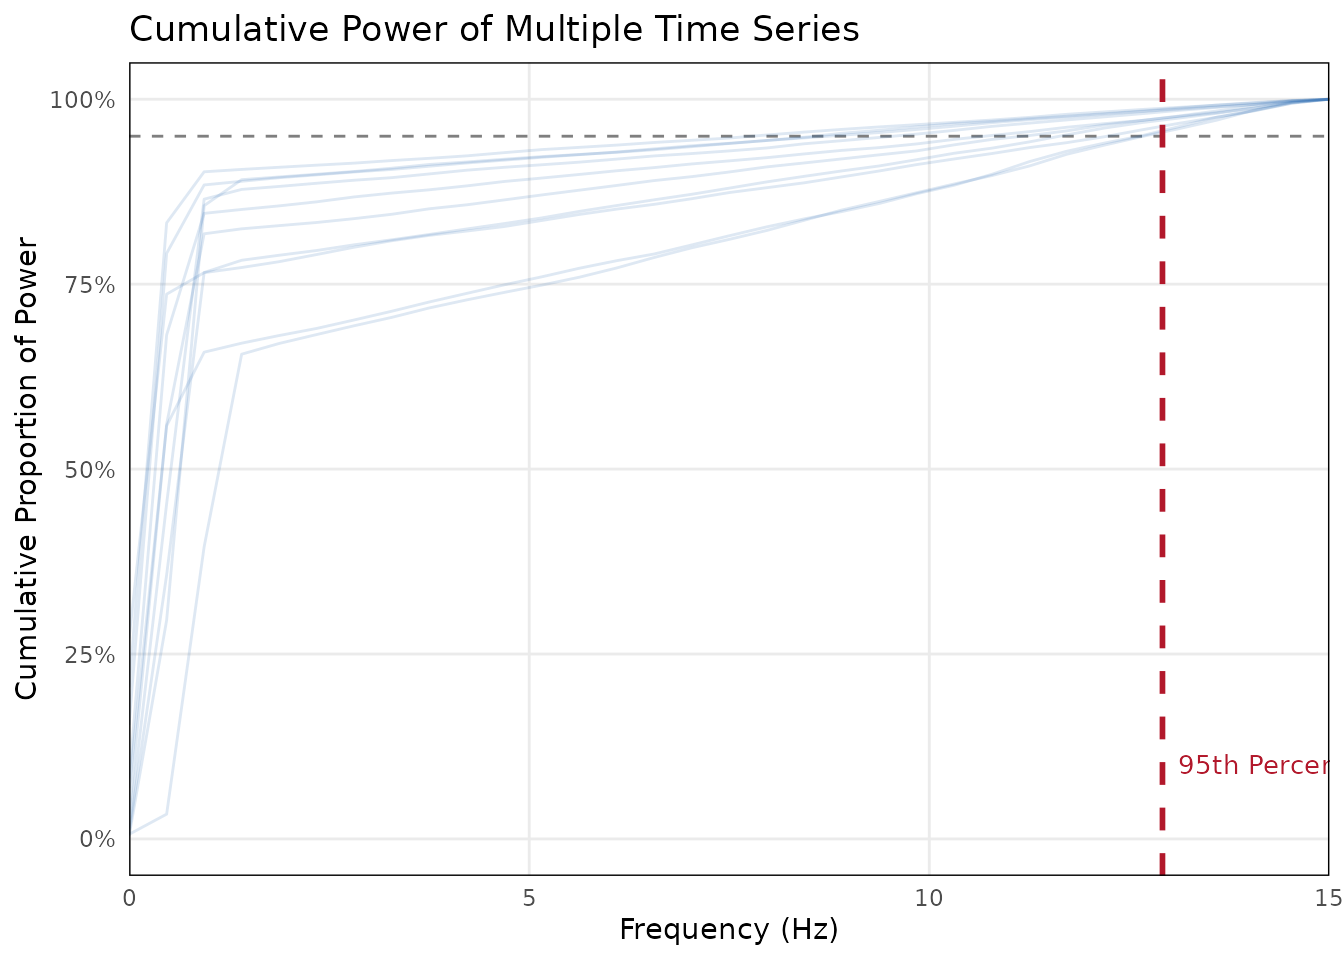
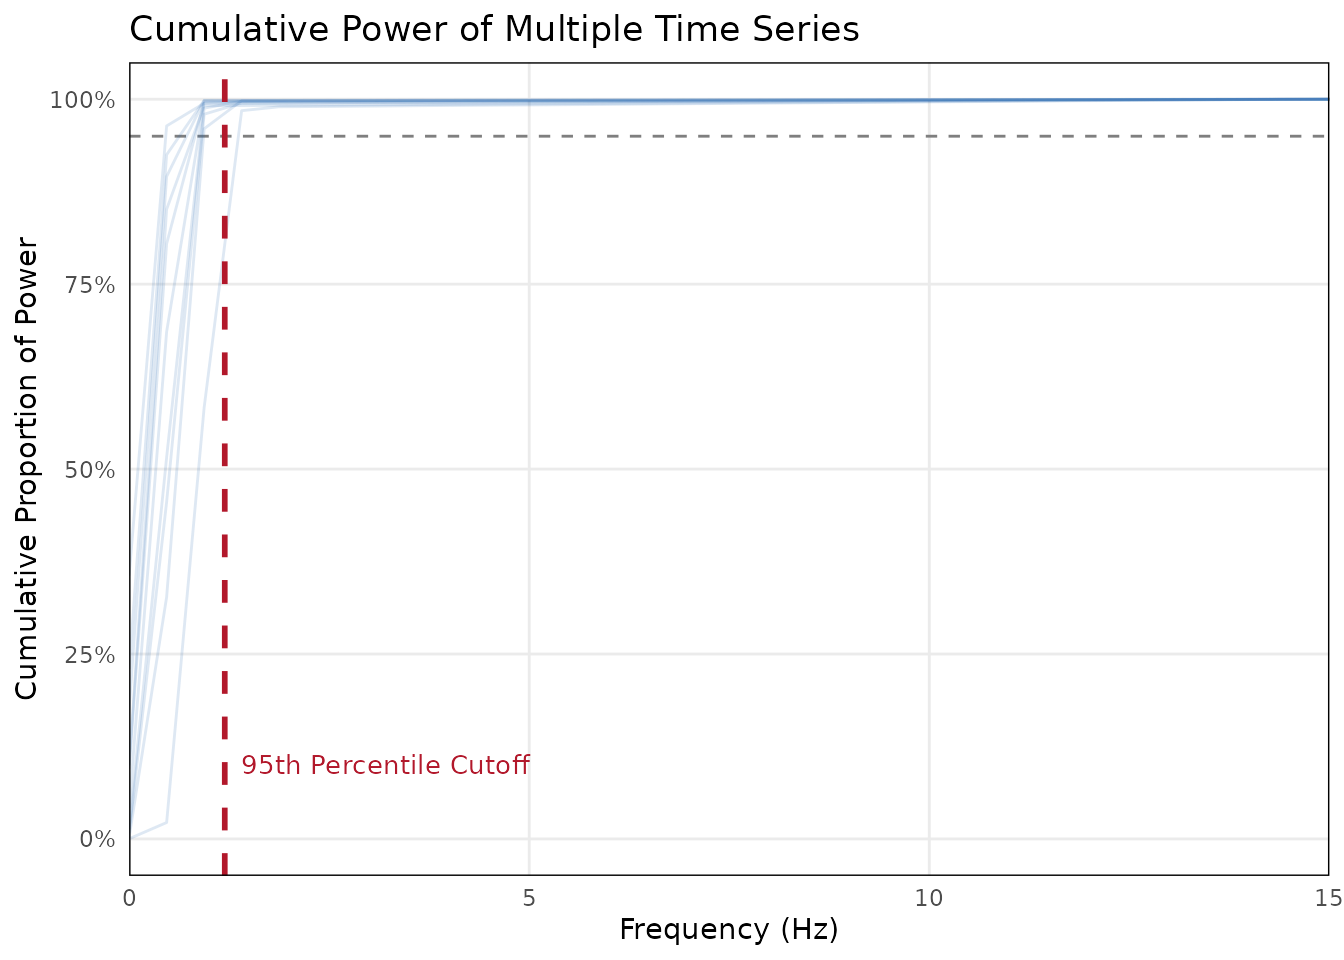
Deploying to gh-pages from @ jmgirard/bsync@775d49aafa53543a225a0b3f1b81e357c44e286f 🚀

diff --git a/articles/signal_power.html b/articles/signal_power.html
@@ -99,8 +99,9 @@ view the diagnostic plots.</p>
 </h2>
 <p>For this tutorial, we will simulate 30Hz continuous smile intensity
 data (e.g., AU12 from OpenFace). Genuine facial expressions typically
-evolve slowly (between 0.3 Hz and 1.5 Hz), whereas automated tracking
-noise fluctuates rapidly.</p>
+evolve slowly (between 0.3 Hz and 1.5 Hz). We will add a small amount of
+high-frequency white noise to simulate micro-jitter from the automated
+tracking software.</p>
 <p>Let’s simulate a dataset of 10 participants.</p>
 <div class="sourceCode" id="cb2"><pre class="downlit sourceCode r">
 <code class="sourceCode R"><span><span class="fu"><a href="https://rdrr.io/r/base/Random.html" class="external-link">set.seed</a></span><span class="op">(</span><span class="fl">42</span><span class="op">)</span></span>
@@ -110,10 +111,10 @@ noise fluctuates rapidly.</p>
 <span><span class="co"># Generate a data frame with 10 simulated participant signals</span></span>
 <span><span class="va">smile_data</span> <span class="op">&lt;-</span> <span class="fu"><a href="https://rdrr.io/r/base/as.data.frame.html" class="external-link">as.data.frame</a></span><span class="op">(</span></span>
 <span>  <span class="fu"><a href="https://rdrr.io/r/base/lapply.html" class="external-link">lapply</a></span><span class="op">(</span><span class="fl">1</span><span class="op">:</span><span class="fl">10</span>, <span class="kw">function</span><span class="op">(</span><span class="va">i</span><span class="op">)</span> <span class="op">{</span></span>
-<span>    <span class="va">base_freq</span> <span class="op">&lt;-</span> <span class="fu"><a href="https://rdrr.io/r/stats/Uniform.html" class="external-link">runif</a></span><span class="op">(</span><span class="fl">1</span>, <span class="fl">0.3</span>, <span class="fl">1.2</span><span class="op">)</span></span>
-<span>    <span class="va">noise_level</span> <span class="op">&lt;-</span> <span class="fu"><a href="https://rdrr.io/r/stats/Uniform.html" class="external-link">runif</a></span><span class="op">(</span><span class="fl">1</span>, <span class="fl">0.2</span>, <span class="fl">0.6</span><span class="op">)</span></span>
-<span>    </span>
-<span>    <span class="co"># Signal (slow wave) + Noise (rapid jitter)</span></span>
+<span>    <span class="va">base_freq</span> <span class="op">&lt;-</span> <span class="fu"><a href="https://rdrr.io/r/stats/Uniform.html" class="external-link">runif</a></span><span class="op">(</span><span class="fl">1</span>, <span class="fl">0.3</span>, <span class="fl">1.2</span><span class="op">)</span> <span class="co"># Genuine slow expression</span></span>
+<span></span>
+<span>    <span class="va">noise_level</span> <span class="op">&lt;-</span> <span class="fu"><a href="https://rdrr.io/r/stats/Uniform.html" class="external-link">runif</a></span><span class="op">(</span><span class="fl">1</span>, <span class="fl">0.02</span>, <span class="fl">0.08</span><span class="op">)</span></span>
+<span></span>
 <span>    <span class="fu"><a href="https://rdrr.io/r/base/Trig.html" class="external-link">sin</a></span><span class="op">(</span><span class="fl">2</span> <span class="op">*</span> <span class="va">pi</span> <span class="op">*</span> <span class="va">base_freq</span> <span class="op">*</span> <span class="va">t</span><span class="op">)</span> <span class="op">+</span> <span class="fu"><a href="https://rdrr.io/r/stats/Normal.html" class="external-link">rnorm</a></span><span class="op">(</span><span class="fu"><a href="https://rdrr.io/r/base/length.html" class="external-link">length</a></span><span class="op">(</span><span class="va">t</span><span class="op">)</span>, mean <span class="op">=</span> <span class="fl">0</span>, sd <span class="op">=</span> <span class="va">noise_level</span><span class="op">)</span></span>
 <span>  <span class="op">}</span><span class="op">)</span></span>
 <span><span class="op">)</span></span>
@@ -130,14 +131,14 @@ variance is captured.</p>
 <div class="sourceCode" id="cb3"><pre class="downlit sourceCode r">
 <code class="sourceCode R"><span><span class="co"># Evaluate just the first participant</span></span>
 <span><span class="va">single_eval</span> <span class="op">&lt;-</span> <span class="fu"><a href="../reference/evaluate_signal_power.html">evaluate_signal_power</a></span><span class="op">(</span></span>
-<span>  x <span class="op">=</span> <span class="va">smile_data</span><span class="op">$</span><span class="va">Participant_1</span>, </span>
-<span>  sample_rate <span class="op">=</span> <span class="va">fs</span>, </span>
+<span>  x <span class="op">=</span> <span class="va">smile_data</span><span class="op">$</span><span class="va">Participant_1</span>,</span>
+<span>  sample_rate <span class="op">=</span> <span class="va">fs</span>,</span>
 <span>  threshold <span class="op">=</span> <span class="fl">0.95</span></span>
 <span><span class="op">)</span></span>
 <span><span class="co">#&gt; </span></span>
 <span><span class="co">#&gt; <span style="color: #00BBBB;">──</span> <span style="font-weight: bold;">Signal Power Evaluation</span> <span style="color: #00BBBB;">─────────────────────────────────────────────────────</span></span></span>
-<span><span class="co">#&gt; 95% of signal power is captured below 13.12 Hz.</span></span>
-<span><span class="co">#&gt; <span style="color: #00BB00;">✔</span> To prevent aliasing, the minimum universal sampling rate is 26.25 Hz.</span></span>
+<span><span class="co">#&gt; 95% of signal power is captured below 1.41 Hz.</span></span>
+<span><span class="co">#&gt; <span style="color: #00BB00;">✔</span> To prevent aliasing, the minimum universal sampling rate is 2.81 Hz.</span></span>
 <span></span>
 <span><span class="co"># View the diagnostic plot</span></span>
 <span><span class="va">single_eval</span><span class="op">$</span><span class="va">plot</span></span></code></pre></div>
@@ -146,7 +147,7 @@ variance is captured.</p>
 aliasing.</p>
 <div class="sourceCode" id="cb4"><pre class="downlit sourceCode r">
 <code class="sourceCode R"><span><span class="fu"><a href="https://rdrr.io/r/base/cat.html" class="external-link">cat</a></span><span class="op">(</span><span class="st">"Recommended Target Rate:"</span>, <span class="fu"><a href="https://rdrr.io/r/base/Round.html" class="external-link">round</a></span><span class="op">(</span><span class="va">single_eval</span><span class="op">$</span><span class="va">recommended_target_rate</span>, <span class="fl">2</span><span class="op">)</span>, <span class="st">"Hz\n"</span><span class="op">)</span></span>
-<span><span class="co">#&gt; Recommended Target Rate: 26.25 Hz</span></span></code></pre></div>
+<span><span class="co">#&gt; Recommended Target Rate: 2.81 Hz</span></span></code></pre></div>
 </div>
 <div class="section level2">
 <h2 id="best-practice-dataset-level-evaluation">Best Practice: Dataset-Level Evaluation<a class="anchor" aria-label="anchor" href="#best-practice-dataset-level-evaluation"></a>
@@ -162,15 +163,15 @@ lists, making this process completely automated.</p>
 <div class="sourceCode" id="cb5"><pre class="downlit sourceCode r">
 <code class="sourceCode R"><span><span class="co"># Pass the entire data frame of 10 participants</span></span>
 <span><span class="va">multi_eval</span> <span class="op">&lt;-</span> <span class="fu"><a href="../reference/evaluate_signal_power.html">evaluate_signal_power</a></span><span class="op">(</span></span>
-<span>  x <span class="op">=</span> <span class="va">smile_data</span>, </span>
-<span>  sample_rate <span class="op">=</span> <span class="va">fs</span>, </span>
+<span>  x <span class="op">=</span> <span class="va">smile_data</span>,</span>
+<span>  sample_rate <span class="op">=</span> <span class="va">fs</span>,</span>
 <span>  threshold <span class="op">=</span> <span class="fl">0.95</span></span>
 <span><span class="op">)</span></span>
 <span><span class="co">#&gt; </span></span>
 <span><span class="co">#&gt; <span style="color: #00BBBB;">──</span> <span style="font-weight: bold;">Dataset-Level Signal Power Evaluation</span> <span style="color: #00BBBB;">───────────────────────────────────────</span></span></span>
 <span><span class="co">#&gt; Evaluated 10 signals.</span></span>
-<span><span class="co">#&gt; 95th percentile of cutoffs is 12.91 Hz.</span></span>
-<span><span class="co">#&gt; <span style="color: #00BB00;">✔</span> To prevent aliasing, the minimum universal sampling rate is 25.83 Hz.</span></span>
+<span><span class="co">#&gt; 95th percentile of cutoffs is 1.2 Hz.</span></span>
+<span><span class="co">#&gt; <span style="color: #00BB00;">✔</span> To prevent aliasing, the minimum universal sampling rate is 2.39 Hz.</span></span>
 <span></span>
 <span><span class="co"># View the dataset-level diagnostic plot</span></span>
 <span><span class="va">multi_eval</span><span class="op">$</span><span class="va">plot</span></span></code></pre></div>
@@ -182,9 +183,9 @@ capture the meaningful behavioral data even for the participants with
 the fastest expressions.</p>
 <div class="sourceCode" id="cb6"><pre class="downlit sourceCode r">
 <code class="sourceCode R"><span><span class="fu"><a href="https://rdrr.io/r/base/cat.html" class="external-link">cat</a></span><span class="op">(</span><span class="st">"95th Percentile Cutoff:"</span>, <span class="fu"><a href="https://rdrr.io/r/base/Round.html" class="external-link">round</a></span><span class="op">(</span><span class="va">multi_eval</span><span class="op">$</span><span class="va">primary_cutoff_freq</span>, <span class="fl">2</span><span class="op">)</span>, <span class="st">"Hz\n"</span><span class="op">)</span></span>
-<span><span class="co">#&gt; 95th Percentile Cutoff: 12.91 Hz</span></span>
+<span><span class="co">#&gt; 95th Percentile Cutoff: 1.2 Hz</span></span>
 <span><span class="fu"><a href="https://rdrr.io/r/base/cat.html" class="external-link">cat</a></span><span class="op">(</span><span class="st">"Minimum Universal Target Rate:"</span>, <span class="fu"><a href="https://rdrr.io/r/base/Round.html" class="external-link">round</a></span><span class="op">(</span><span class="va">multi_eval</span><span class="op">$</span><span class="va">recommended_target_rate</span>, <span class="fl">2</span><span class="op">)</span>, <span class="st">"Hz\n"</span><span class="op">)</span></span>
-<span><span class="co">#&gt; Minimum Universal Target Rate: 25.83 Hz</span></span></code></pre></div>
+<span><span class="co">#&gt; Minimum Universal Target Rate: 2.39 Hz</span></span></code></pre></div>
 </div>
 <div class="section level2">
 <h2 id="applying-the-downsampling">Applying the Downsampling<a class="anchor" aria-label="anchor" href="#applying-the-downsampling"></a>

diff --git a/articles/signal_power.md b/articles/signal_power.md
@@ -24,8 +24,9 @@ library(ggplot2)
 
 For this tutorial, we will simulate 30Hz continuous smile intensity data
 (e.g., AU12 from OpenFace). Genuine facial expressions typically evolve
-slowly (between 0.3 Hz and 1.5 Hz), whereas automated tracking noise
-fluctuates rapidly.
+slowly (between 0.3 Hz and 1.5 Hz). We will add a small amount of
+high-frequency white noise to simulate micro-jitter from the automated
+tracking software.
 
 Let’s simulate a dataset of 10 participants.
 
@@ -38,10 +39,10 @@ t <- seq(0, 60, by = 1/fs)
 # Generate a data frame with 10 simulated participant signals
 smile_data <- as.data.frame(
   lapply(1:10, function(i) {
-    base_freq <- runif(1, 0.3, 1.2)
-    noise_level <- runif(1, 0.2, 0.6)
-    
-    # Signal (slow wave) + Noise (rapid jitter)
+    base_freq <- runif(1, 0.3, 1.2) # Genuine slow expression
+
+    noise_level <- runif(1, 0.02, 0.08)
+
     sin(2 * pi * base_freq * t) + rnorm(length(t), mean = 0, sd = noise_level)
   })
 )
@@ -61,14 +62,14 @@ true variance is captured.
 
 # Evaluate just the first participant
 single_eval <- evaluate_signal_power(
-  x = smile_data$Participant_1, 
-  sample_rate = fs, 
+  x = smile_data$Participant_1,
+  sample_rate = fs,
   threshold = 0.95
 )
 #> 
 #> ── Signal Power Evaluation ─────────────────────────────────────────────────────
-#> 95% of signal power is captured below 13.12 Hz.
-#> ✔ To prevent aliasing, the minimum universal sampling rate is 26.25 Hz.
+#> 95% of signal power is captured below 1.41 Hz.
+#> ✔ To prevent aliasing, the minimum universal sampling rate is 2.81 Hz.
 
 # View the diagnostic plot
 single_eval$plot
@@ -82,7 +83,7 @@ aliasing.
 ``` r
 
 cat("Recommended Target Rate:", round(single_eval$recommended_target_rate, 2), "Hz\n")
-#> Recommended Target Rate: 26.25 Hz
+#> Recommended Target Rate: 2.81 Hz
 ```
 
 ## Best Practice: Dataset-Level Evaluation
@@ -102,15 +103,15 @@ automated.
 
 # Pass the entire data frame of 10 participants
 multi_eval <- evaluate_signal_power(
-  x = smile_data, 
-  sample_rate = fs, 
+  x = smile_data,
+  sample_rate = fs,
   threshold = 0.95
 )
 #> 
 #> ── Dataset-Level Signal Power Evaluation ───────────────────────────────────────
 #> Evaluated 10 signals.
-#> 95th percentile of cutoffs is 12.91 Hz.
-#> ✔ To prevent aliasing, the minimum universal sampling rate is 25.83 Hz.
+#> 95th percentile of cutoffs is 1.2 Hz.
+#> ✔ To prevent aliasing, the minimum universal sampling rate is 2.39 Hz.
 
 # View the dataset-level diagnostic plot
 multi_eval$plot
@@ -126,9 +127,9 @@ behavioral data even for the participants with the fastest expressions.
 ``` r
 
 cat("95th Percentile Cutoff:", round(multi_eval$primary_cutoff_freq, 2), "Hz\n")
-#> 95th Percentile Cutoff: 12.91 Hz
+#> 95th Percentile Cutoff: 1.2 Hz
 cat("Minimum Universal Target Rate:", round(multi_eval$recommended_target_rate, 2), "Hz\n")
-#> Minimum Universal Target Rate: 25.83 Hz
+#> Minimum Universal Target Rate: 2.39 Hz
 ```
 
 ## Applying the Downsampling